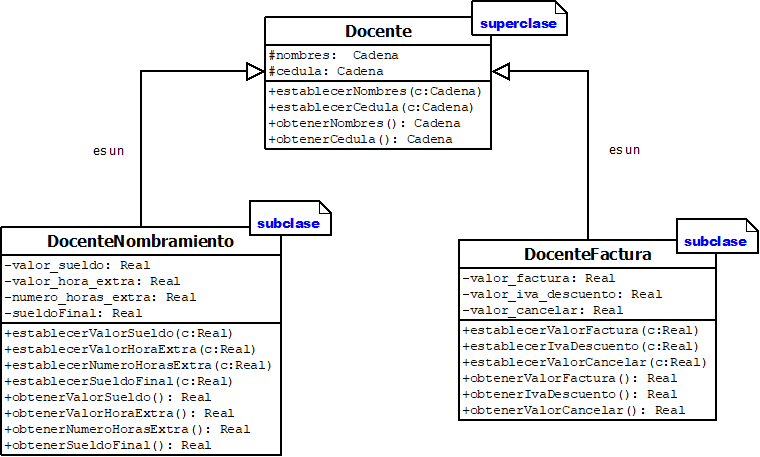
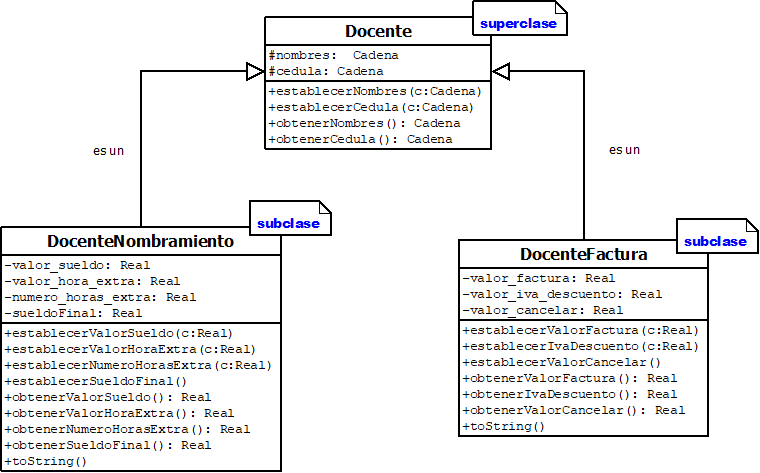
Completado

diff --git a/Taller08/src/paquete2/Ejecutor.java b/Taller08/src/paquete2/Ejecutor.java
@@ -5,6 +5,11 @@
  */
 package paquete2;
 
+import java.util.Locale;
+import java.util.Scanner;
+import paquete1.DocenteFactura;
+import paquete1.DocenteNombramiento;
+
 /**
  *
  * @author reroes
@@ -12,7 +17,53 @@ package paquete2;
 public class Ejecutor {
 
     public static void main(String[] args) {
+        Scanner entrada = new Scanner(System.in);
+        entrada.useLocale(Locale.US);
 
+        int op;
+
+        System.out.println("Ingrese [1] para crear Docente Nombramiento\n"
+                + "Ingrese [2] para crear Docente Factura");
+        op = entrada.nextInt();
+
+        if (op < 1 || op > 2) {
+            System.err.println("Error, opción no válida.");
+        } else {
+            entrada.nextLine();
+            System.out.println("Ingrese nombres: ");
+            String nombres = entrada.nextLine();
+            System.out.println("Ingrese cedula: ");
+            String cedula = entrada.nextLine();
+
+            switch (op) {
+                case 1:
+                    DocenteNombramiento docente = new DocenteNombramiento();
+                    docente.establecerNombres(nombres);
+                    docente.establecerCedula(cedula);
+
+                    System.out.println("Ingrese el valor del sueldo: ");
+                    docente.establecerValorSueldo(entrada.nextFloat());
+                    System.out.println("Ingrese el valor de hora extra: ");
+                    docente.establecerValorHoraExtra(entrada.nextFloat());
+                    System.out.println("Ingrese el numero de horas extra: ");
+                    docente.establecerNumeroHorasExtra(entrada.nextFloat());
+                    docente.establecerSueldoFinal();
+                    System.out.printf("%s\n", docente);
+                    break;
+                case 2:
+                    DocenteFactura docenteF = new DocenteFactura();
+                    docenteF.establecerNombres(nombres);
+                    docenteF.establecerCedula(cedula);
+
+                    System.out.println("Ingrese el Valor de Factura: ");
+                    docenteF.establecerValorFactura(entrada.nextFloat());
+                    System.out.println("Ingrese el descuento porcentaje iva: ");
+                    docenteF.establecerValorIvaFactura(entrada.nextFloat());
+                    docenteF.establecerValorCancelar();
+                    System.out.printf("%s\n", docenteF);
+                    break;
+                default: break;
+            }
+        }
     }
-
 }

diff --git a/Taller08/src/paquete1/DocenteNombramiento.java b/Taller08/src/paquete1/DocenteNombramiento.java
@@ -8,6 +8,60 @@ package paquete1;
  *
  * @author Daniel
  */
-public class DocenteNombramiento {
-    
+public class DocenteNombramiento extends Docente {
+
+    float valor_sueldo;
+    float valor_hora_extra;
+    float numero_hora_extra;
+    float sueldoFinal;
+
+    public void establecerValorSueldo(float c) {
+        valor_sueldo = c;
+    }
+
+    public void establecerValorHoraExtra(float c) {
+        valor_hora_extra = c;
+    }
+
+    public void establecerNumeroHorasExtra(float c) {
+        numero_hora_extra = c;
+    }
+
+    public void establecerSueldoFinal() {
+        sueldoFinal = valor_sueldo + (valor_hora_extra * numero_hora_extra);
+    }
+
+    public float obtenerValorSueldo() {
+        return valor_sueldo;
+    }
+
+    public float obtenerValorHoraExtra() {
+        return valor_hora_extra;
+    }
+
+    public float obtenerNumeroHorasExtra() {
+        return numero_hora_extra;
+    }
+
+    public float obtenerValorSueldoFinal() {
+        return sueldoFinal;
+    }
+
+    @Override
+    public String toString() {
+        String reporte = String.format("Nombres: %s\n"
+                + "Identificacion: %s\n"
+                + "Valor Sueldo: %.1f\n"
+                + "Valor Horas Extra: %.1f\n"
+                + "Numero de Horas Extra: %.1f\n"
+                + "Sueldo Final: %.2f\n",
+                obtenerNombres(),
+                obtenerCedula(),
+                obtenerValorSueldo(),
+                obtenerValorHoraExtra(),
+                obtenerNumeroHorasExtra(),
+                obtenerValorSueldoFinal());
+        return reporte;
+    }
+
 }

diff --git a/Taller08/src/paquete1/DocenteFactura.java b/Taller08/src/paquete1/DocenteFactura.java
@@ -8,6 +8,48 @@ package paquete1;
  *
  * @author Daniel
  */
-public class DocenteFactura {
-    
+public class DocenteFactura extends Docente {
+
+    float valor_factura;
+    float valor_iva_factura;
+    float valor_cancelar;
+
+    public void establecerValorFactura(float c) {
+        valor_factura = c;
+    }
+
+    public void establecerValorIvaFactura(float c) {
+        valor_iva_factura = c;
+    }
+
+    public void establecerValorCancelar() {
+        valor_cancelar = valor_factura - (valor_factura * (valor_iva_factura / 100));
+    }
+
+    public float obtenerValorFactura() {
+        return valor_factura;
+    }
+
+    public float obtenerValorIvaFactura() {
+        return valor_iva_factura;
+    }
+
+    public float obtenerValorCancelar() {
+        return valor_cancelar;
+    }
+
+    @Override
+    public String toString() {
+        String reporte = String.format("Nombres: %s\n"
+                + "Identificacion: %s\n"
+                + "Valor Factura %.1f\n"
+                + "Valor Iva Descuento: %.1f\n"
+                + "Valor a Cancelar: %.2f\n",
+                obtenerNombres(),
+                obtenerCedula(),
+                obtenerValorFactura(),
+                obtenerValorIvaFactura(),
+                obtenerValorCancelar());
+        return reporte;
+    }
 }
